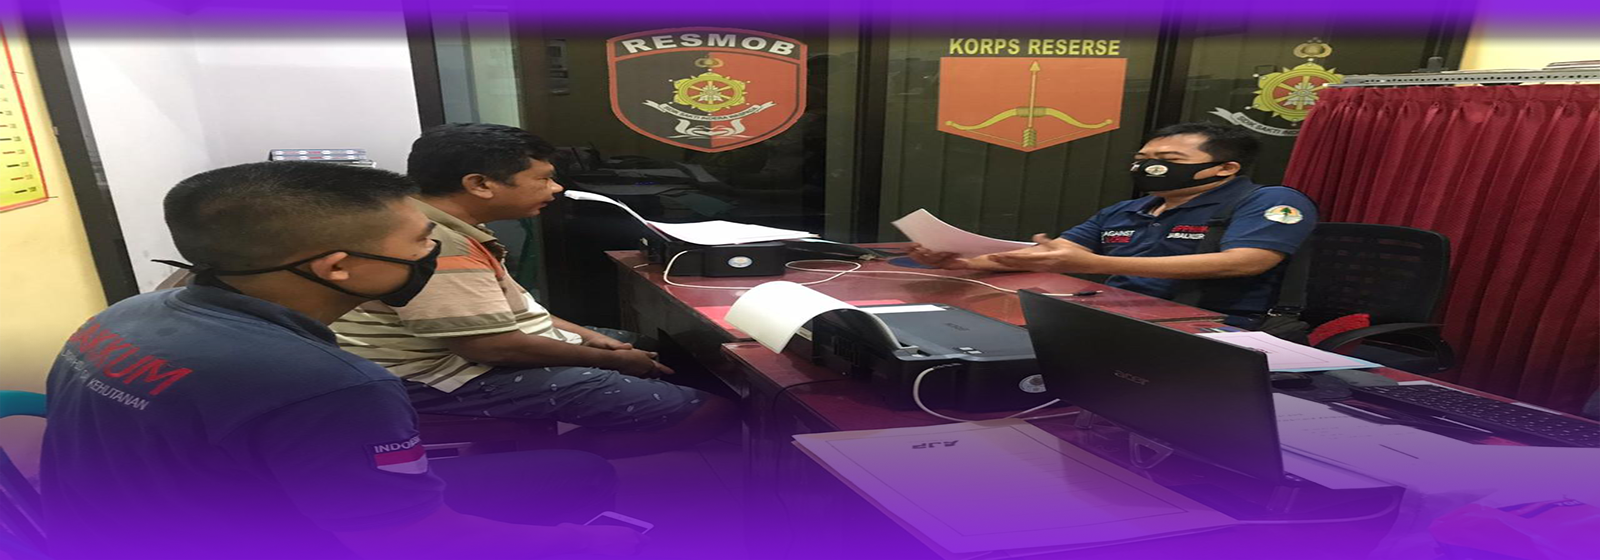
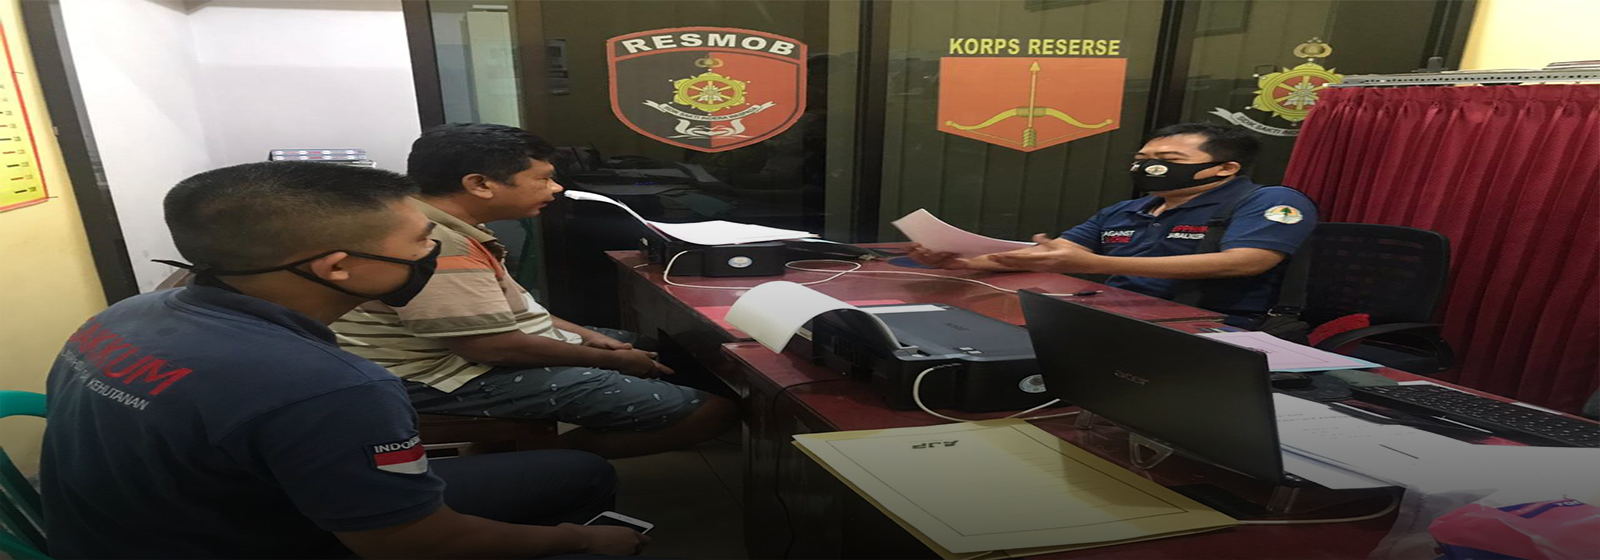
enambah foot untuk penutup di bawah web penyidikan

diff --git a/WebPenyidikan/Penyidikan.html b/WebPenyidikan/Penyidikan.html
@@ -117,10 +117,10 @@
     </nav>
 
     <!-- akhir navbar -->
-
+  
     <!-- awal foto slide -->
 
-    <body style="padding:0px; margin:0px; background-color:#fff;font-family:viga,arial,helvetica,sans-serif,verdana,'Open Sans'">
+    <body style="padding:0px; margin:0px; background-color:rgb(245, 247, 239);font-family:viga,arial,helvetica,sans-serif,verdana,'Open Sans'">
 
       
       
@@ -145,8 +145,8 @@
               <img style="margin-top:-19px;position:relative;top:50%;width:38px;height:38px;" src="img/spin.svg" />
           </div>
           <div data-u="slides" style="cursor:default;position:relative;top:0px;left:0px;width:1600px;height:560px;overflow:hidden;">
-              <div style="background-color:#d3870e4b;">
-                  <img data-u="image" style="opacity:0.8;" data-src="gambar/Bajo1.png" />
+              <div style="background-color:#d3870e00;">
+                  <img data-u="image" style="opacity:0.8;border-radius: 20px;" data-src="gambar/Bajo1.png" />
                   <div data-ts="flat" data-p="275" data-po="40% 50%" style="left:150px;top:40px;width:800px;height:300px;position:absolute;">
                       <div data-to="50% 50%" data-t="0" style="left:50px;top:520px;width:400px;height:100px;position:absolute;color:#000000;font-family:'Roboto Condensed',sans-serif;font-size:84px;font-weight:900;letter-spacing:0.5em;">Gakkum KLHK</div>
                       <div data-to="50% 50%" data-t="1" style="left:50px;top:540px;width:400px;height:100px;position:absolute;opacity:0.5;color:#000000;font-family:'Roboto Condensed',sans-serif;font-size:84px;font-weight:900;letter-spacing:0.5em;">Gakkum KLHK</div>
@@ -157,7 +157,7 @@
                   </div>
               </div>
               <div>
-                  <img data-u="image" data-src="gambar/mataram1.png" />
+                  <img data-u="image" style="border-radius: 20px;" data-src="gambar/mataram1.png" />
                   <div data-ts="flat" data-p="540" data-po="40% 50%" style="left:0px;top:0px;width:1600px;height:560px;position:absolute;">
                       <div data-to="50% 50%" data-ts="preserve-3d" data-t="6" style="left:350px;top:360px;width:900px;height:500px;position:absolute;">
                           <svg viewbox="0 0 800 60" data-to="50% 50%" width="800" height="60" data-t="7" style="left:0px;top:-70px;display:block;position:absolute;opacity:0;font-family:'Roboto Condensed',sans-serif;font-size:60px;font-weight:700;letter-spacing:0.05em;overflow:visible;">
@@ -172,8 +172,8 @@
                       </div>
                   </div>
               </div>
-              <div style="background-color:#00000086;">
-                  <img data-u="image" style="opacity:0.8;" data-src="gambar/sw2.png" />
+              <div style="background-color:#00000000;">
+                  <img data-u="image" style="opacity:0.8;border-radius: 20px;" data-src="gambar/sw2.png" />
                   <div data-ts="flat" data-p="1080" style="left:0px;top:0px;width:1600px;height:560px;position:absolute;">
                       <svg viewbox="0 0 600 400" data-ts="preserve-3d" width="600" height="400" data-tchd="jssor_1_msk_3" style="left:255px;top:0px;display:block;position:absolute;overflow:visible;">
                           <g mask="url(#jssor_1_msk_3)">
@@ -191,7 +191,7 @@
                   </div>
               </div>
               <div>
-                  <img data-u="image" data-src="gambar/dobo4.png" />
+                  <img data-u="image" style="border-radius: 20px;" data-src="gambar/dobo4.png" />
                   <div data-ts="flat" data-p="1080" style="left:0px;top:0px;width:1600px;height:560px;position:absolute;">
                       <div data-to="50% 50%" data-t="13" style="left:100px;top:-20px;width:800px;height:200px;position:absolute;opacity:0;">
                           <div style="left:80px;top:35px;width:480px;height:90px;position:absolute;color:rgb(215, 217, 74);font-family:'Roboto Condensed',sans-serif;font-size:72px;line-height:1.2;">Integritas Profesional</div>
@@ -201,7 +201,7 @@
                   </div>
               </div>
               <div>
-                  <img data-u="image" data-src="gambar/bajo2.png" />
+                  <img data-u="image" style="border-radius: 20px;" data-src="gambar/bajo2.png" />
                   <div data-ts="flat" data-p="1080" style="left:0px;top:0px;width:1600px;height:560px;position:absolute;">
                       <div data-to="50% 50%" data-t="14" style="left:690px;top:140px;width:700px;height:150px;position:absolute;opacity:0;color:#ffffff;font-family:Georgia,'Times New Roman',Times,serif;font-size:60px;line-height:1.2;letter-spacing:0.1em;">Siap Melawan Kejahatan<br />Lingkungan Hidup Dan Kehutanan</div>
                       <img data-to="50% 50%" data-t="15" style="left:780px;top:350px;width:400px;height:157px;position:absolute;opacity:0;max-width:344px;" data-src="gambar/daengkecil2.png" />
@@ -240,21 +240,20 @@
          <p class="lead">Tugas Balai Gakkum KLHK wilayah Jabalnusra.</p>
          <hr class="my-4">
          <p>Penurunan gangguan, ancaman dan pelanggaran hukum lingkungan hidup dan Kehutanan</p>
-         <a class="btn btn-primary btn-lg" href="#" role="button">Lihat Data</a>
+         <a class="btn btn-success" href="#" role="button">Lihat Data</a>
        </div>
       </div>
       <!-- akhir Jumbotron -->
       <!-- awal workspace -->
       <div class="container">
-         <div class="row workingspace">
-            <p></p>
+         <div class="row workingspace">            
             <h5>Peta Sebaran Kegiatan Penyidikan dan Grafik Capaian Kasus Per Tipologi</h5><br>       
             <div class="col">
                <img src="gambar/peta sidik1.png" alt="peta" class="img-fluid">
             </div>
             <div class="col">
-               <img src="gambar/grafik sidik 1.png" alt="grafik" class="img-fluid"><br>
-               <a href="#" class="btn btn-primary Galery">Galery</a>
+               <img src="gambar/grafik sidik 1.png" alt="grafik" class="img-fluid">
+               
             </div>            
          </div>
          
@@ -264,59 +263,77 @@
       <!-- awal galery foto -->
       <div class="container">
          <div class="row">
+           <p>Foto Kegiatan Proses Penyidikan</p>
            <div class="col-md-4">
              <div class="thumbnail">
                <img src="gambar/galery1.png" class="img-responsive">
              </div>
              <div class="deskripsi-album">
-               Lorem Ipsum is simply dummy text of the printing and typesetting industry. Lorem Ipsum has been the industry's standard dummy text ever since the 1500s.
+               Senin, 21 September 2020. Pemeriksaan Saksi Ahli Dari Balai Pemantapan Kawasan Hutan Kepulauan Aru. Kota Ambon, Maluku, Indonesia.
              </div>
            </div>
            <div class="col-md-4">
              <div class="thumbnail">
-               <img src="images/featured.jpg" class="img-responsive">
+               <img src="gambar/galery2.png" class="img-responsive">
              </div>
              <div class="deskripsi-album">
-               Lorem Ipsum is simply dummy text of the printing and typesetting industry. Lorem Ipsum has been the industry's standard dummy text ever since the 1500s.
+               Kamis, 7 Januari 2021. Kegiatan Tahap II dalam Proses Penyidikan, Mengantar Tersangka ke Rutan.
              </div>
            </div>
            <div class="col-md-4">
              <div class="thumbnail">
-               <img src="images/featured.jpg" class="img-responsive">
+               <img src="gambar/galery3.png" class="img-responsive">
              </div>
              <div class="deskripsi-album">
-               Lorem Ipsum is simply dummy text of the printing and typesetting industry. Lorem Ipsum has been the industry's standard dummy text ever since the 1500s.
+               Kamis, 8 Juli 2021, Tahap II Kasus Penangkapan Ikan Menggunakan Bom Rakitan di Taman Nasional Komodo.
              </div>
            </div>
          </div>
          <div class="row">
            <div class="col-md-4">
              <div class="thumbnail">
-               <img src="images/featured.jpg" class="img-responsive">
+               <img src="gambar/galery4.png" class="img-responsive">
              </div>
              <div class="deskripsi-album">
-               Lorem Ipsum is simply dummy text of the printing and typesetting industry. Lorem Ipsum has been the industry's standard dummy text ever since the 1500s.
+               Selasa, 22 September 2020, Pemeriksaan saksi dalam Proses Penyidikan. Kota Ambon Maluku, Indonesia
              </div>
            </div>
            <div class="col-md-4">
              <div class="thumbnail">
-               <img src="images/featured.jpg" class="img-responsive">
+               <img src="gambar/galery5.png" class="img-responsive">
              </div>
              <div class="deskripsi-album">
-               Lorem Ipsum is simply dummy text of the printing and typesetting industry. Lorem Ipsum has been the industry's standard dummy text ever since the 1500s.
+               Sabtu, 26 September 2020. Kegiatan Lacak Balak dalam Proses Penyidikan Pembalakan Liar. Dobo Kepulauan Aru Maluku Ambon, Indonesia.
              </div>
            </div>
            <div class="col-md-4">
              <div class="thumbnail">
-               <img src="images/featured.jpg" class="img-responsive">
+               <img src="gambar/galery6.png" class="img-responsive">
              </div>
              <div class="deskripsi-album">
-               Lorem Ipsum is simply dummy text of the printing and typesetting industry. Lorem Ipsum has been the industry's standard dummy text ever since the 1500s.
+               Rabu, 23 September 2020, Kegiatan Pembagian Tugas Dalam Proses Penyidikan. Kota Ambon Maluku, Indonesia.
              </div>
            </div>
          </div>
        </div>
-    sumber: https://www.posciety.com/cara-membuat-grid-album-foto-bootstrap/
+
+       <div class="b-example-divider"></div>
+
+  <div class="bg-success text-dark px-4 py-5 text-center">
+    <div class="py-5">
+      <h1 class="display-5 fw-bold text-white">PPNS Di Balai Gakkum KLHK Jabalnusra</h1>
+      <div class="col-lg-6 mx-auto">
+        <p class="fs-5 mb-4">Jumlah PPNS yang ada di Balai Gakkum KLHK wil.Jabalnusra sebanyak 33 (tiga puluh tiga) orang. 9 (sembilan) orang di Seksi wilayah 1 Jakarta, 12 (dua belas) orang di Seksi Wilayah 2 Surabaya, di Seksi wilayah 3 Kupang sebanyak 3 (tiga) orang dan 1 (satu) orang di Balai</p>
+        <div class="d-grid gap-2 d-sm-flex justify-content-sm-center">
+          <a type="button" class="btn btn-outline-info btn-lg px-4 me-sm-3 fw-bold" href="#">PUSDATIN</a>
+          
+        </div>
+      </div>
+    </div>
+  </div>
+
+  <div class="b-example-divider mb-0"></div>
+    sumber: PUSDATIN BALAI GAKKUM KLHK JABALNUSRA
 
 
 

diff --git a/WebPenyidikan/style.css b/WebPenyidikan/style.css
@@ -94,8 +94,8 @@
 
 .jumbotron {
   background-color: bisque;
-  width: 956px;
-  margin-left: -130px;
+  width: auto;
+  margin-left: auto;
 }
 
 .display-4 {
@@ -116,8 +116,41 @@
 
 .workingspace h5 {
   text-align: center;
-  margin-top: 30px;
+  margin-top: 10px;
   color: darkblue;
+}
+
+.workingspace img {
+  border-radius: 20px;
+}
+
+.row {
+  margin-top: 50px;
+  text-align: center;
+  font-family: "Times New Roman", Times, serif;
+}
+
+.row p {
+  color: blue;
+  font-weight: bold;
+}
+
+.row img {
+  border-radius: 15px;
+}
+
+.py-5 {
+  height: 300px;
+  border-radius: 20px;
+  margin-top: 30px;
+}
+
+.display-5 {
+  margin-top: -120px;
+}
+
+.mb-4 {
+  margin-top: -10px;
 }
 
 /* desktop */
@@ -144,9 +177,13 @@
   }
 
   .jumbotron {
-    background-color: bisque;
-    width: auto;
-    margin: auto;
+    background-color: rgba(119, 136, 153, 0.212);
+    width: 1200px;
+    margin-left: -42px;
     border-radius: 20px;
+    box-shadow: rgb(0, 0, 0);
+    padding: 20px;
+    position: relative;
+    margin-top: -20px;
   }
 }

diff --git a/WebPusdatin/Pusat_Data.html b/WebPusdatin/Pusat_Data.html
@@ -101,7 +101,7 @@
             </div>
               <div class="collapse navbar-collapse" id="navbarNavAltMarkup">
                 <div class="navbar-nav">
-                  <a class="nav-item nav-link" aria-current="page" href="file:///D:/OneDrive%20-%20365%20Genuine/Desktop/web%20site/Website/Web%20Penyidikan/Penyidikan.html">Penyidikan</a>
+                  <a class="nav-item nav-link" aria-current="page" href="#">Penyidikan</a>
                   <a class="nav-item nav-link" href="#">Operasi</a>
                   <a class="nav-item nav-link" href="#">Pengawasan</a>
                   <a class="nav-item nav-link" href="#">Pengaduan</a>
